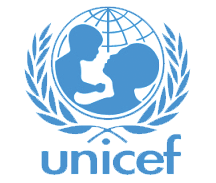
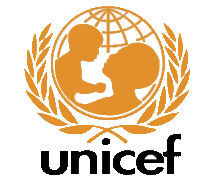
Edited index and css
Fixed button states, added borders to cards, working on footer,

diff --git a/Week-7-hwk/index.html b/Week-7-hwk/index.html
@@ -17,9 +17,9 @@
 <body>
     <main>
         <!--navigation bar-->
-        <nav class="navbar navbar-expand-lg navbar-light bg-light">
+        <nav class="navbar fixed-top navbar-expand-lg navbar-light bg-white">
             <!-- Image and text -->
-            <nav class="navbar navbar-light bg-light">
+            <nav class="navbar navbar-light bg-white">
                 <a class="navbar-logo" href="index.html">
                     <img src="images/sextant.png" width="45" height="45" class="d-inline-block align-top" alt="">
                 </a>
@@ -65,11 +65,20 @@
                 <br>
                 <a class="btn btn-primary" href="#">Learn More</a>
             </div>
-            <br><br><br><br><br><br><br><br><br>
+            <br>
+            <br>
+            <br>
+            <br>
+            <br>
+            <br>
+            <br>
+            <br>
+            <br>
         </div>
 
         <div class="container text-center">
             <h2 class="charities">We work with over 20 charities worldwide</h2>
+            <br>
             <br>
             <div class="row">
                 <div class="col-md-4">
@@ -82,10 +91,20 @@
                 <div class="col-md-4">
                     <img class="pt-4" src="images/salvation-army.png" height="150" alt="Salvation Army Logo">
                 </div>
+                <div class="col-md-4">
+                    <img class="pt-4" src="images/unicef.png" height="150" alt="Unicef Logo">
+                 </div>
+                 <div class="col-md-4">
+                     <img class="pt-4" src="images/kars-4-kids.jpg" height="150" alt="Kars 4 Kids Logo">
+                 </div>
+                 <div class="col-md-4">
+                     <img class="pt-4" src="images/polloloco.jpg" height="150" alt="El Pollo Loco Logo">
+                 </div>
             </div>
             <br>
             <br>
             <h2 class="charities">Come find out what we're all about</h2>
+            <br>
             <br>
             <div class="card-deck">
                 <div class="card" style="width: 18rem;">
@@ -121,13 +140,29 @@
         <br>
         <br>
         <footer>
-            <div class="stripe">
-                <br>
-            </div>
             <div class="footer">
-                <br>
-                <br>
-                <br>
+                <div class="row">
+                    <div class="col-md-8">
+                        <h4 class="footer-logo text-center">Sextant International</h4>
+                    </div>
+                    <div class="col-md-4">
+                            <ul class="nav">
+                                    <li class="nav-item">
+                                      <a class="nav-link active" href="#">Active</a>
+                                    </li>
+                                    <li class="nav-item">
+                                      <a class="nav-link" href="#">Link</a>
+                                    </li>
+                                    <li class="nav-item">
+                                      <a class="nav-link" href="#">Link</a>
+                                    </li>
+                                    <li class="nav-item">
+                                      <a class="nav-link disabled" href="#" tabindex="-1" aria-disabled="true">Disabled</a>
+                                    </li>
+                                  </ul>
+                    </div>
+
+                </div>
             </div>
         </footer>
 
@@ -137,16 +172,16 @@
     <div class="modal" tabindex="-1" role="dialog" id="myModal">
         <div class="modal-dialog" role="document">
             <div class="modal-content">
-                <div class="modal-header">
-                    <h5 class="modal-title">Get the latest news on all we do!</h5>
+                <div class="modal-header text-center">
+                    <h5 class="modal-title w-100">Get the latest news on all we do!</h5>
                 </div>
-                <div class="modal-body">
+                <div class="modal-body text-center">
                         <form>
                                 <div class="form-group">
-                                    <lead class="lead" name="modal-lead">Give us your email address so you can see the awesome stuff on this site</lead>
+                                    <lead class="lead w-100" name="modal-lead">Give us your email address so you can see the awesome stuff on this site</lead>
                                   <input type="email" class="form-control" id="exampleInputEmail1" aria-describedby="emailHelp" placeholder="Enter email">
-                                  <small id="emailHelp" class="form-text text-muted">We'll never share your email with anyone else.</small>
-                                  <small id="emailHelp" class="form-text text-muted">(Except maybe third party companies and US government agencies)</small>
+                                  <small id="emailHelp" class="form-text text-muted text-left">We'll never share your email with anyone else.</small>
+                                  <small id="emailHelp" class="form-text text-muted text-left">(Except maybe third party companies and US government agencies)</small>
                                 </div>
                                 <div class="text-center">
                                 <button type="submit" class="btn btn-primary" data-dismiss="modal">Let me in!</button>

diff --git a/Week-7-hwk/styles.css b/Week-7-hwk/styles.css
@@ -9,6 +9,7 @@
     font-weight:500;
 }
 
+
 .navbar .navbar-brand {
     font-family: 'Muli', sans-serif !important;
 }
@@ -18,9 +19,18 @@
 .btn-primary {
     color:#FFFFFF;
     background-color: #e2902b;
-    font-family: 'Muli', sans-serif !important
-
+    font-family: 'Muli', sans-serif !important;
+    border-color: #e2902b !important;
 }
+.btn-primary:hover, .btn-primary:focus, .btn-primary:active, .btn-primary.active {
+    background-color:#e39b44 !important;
+    color: #FFFFFF !important;
+    border-color: #e2902b !important;
+    outline: none !important;
+    box-shadow: none !important;
+}
+
+
 .display-4 {
     font-family: 'Muli', sans-serif !important;
     color: #FFFFFF
@@ -46,5 +56,19 @@
 }
 
 .card .card-text {
+    font-family: 'Muli', sans-serif !important;
+}
+
+.card {
+    border-color: #e2902b !important;
+    border-width: medium !important;
+    border-radius: 25px !important;
+}
+
+#bottom-nav {
+    color: #FFFFFF !important;
+}
+
+.footer-logo {
     font-family: 'Muli', sans-serif !important;
 }

diff --git a/Week-7-hwk/team.html b/Week-7-hwk/team.html
@@ -52,9 +52,6 @@
 
         <footer>
             <div class="footer">
-                <br>
-                <br>
-                <br>
             </div>
         </footer>
 
